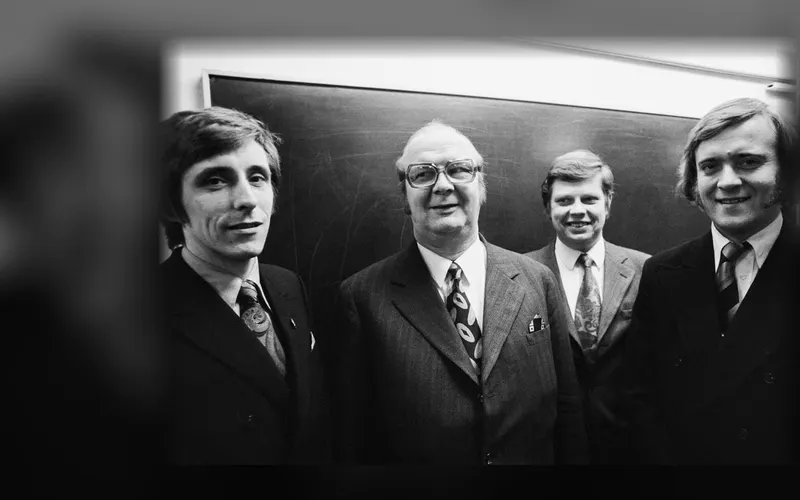
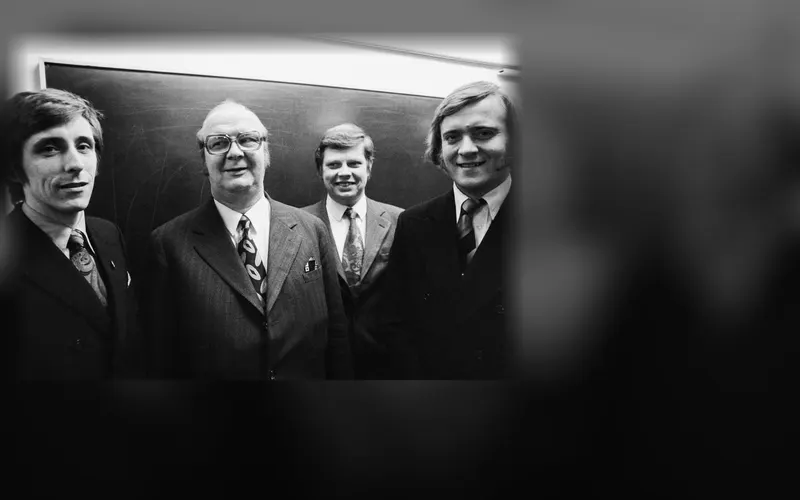
Seurapatruunat-kuva: koko ryhmä näkyviin (Heikki: Mäkinenkin seurapomo, ei zoomata Mobergiin)

diff --git a/apps/tietoniekka/lib/jaakiekko.ts b/apps/tietoniekka/lib/jaakiekko.ts
@@ -170,7 +170,7 @@ export const JK_GENERAL: JkCard[] = [
   { quizSlug: "sm-liiga-finaalidraamat", tag: "Finaalit", title: "Kolmannen jatkoerän sankarit", img: IMG("jk-liiga-finaalidraamat-kuva"), pos: "16% top", accent: "#E8A320" },
   { quizSlug: "sm-liiga-valmentajadraamat-tulisielut", tag: "Penkin takana", title: "Aidot tulisielut", img: IMG("jk-liiga-valmentajat-kuva"), pos: "16% top", accent: "#E2231A" },
   { quizSlug: "sm-liiga-ulkomaalaisvahvistukset", tag: "Tuontitavara", title: "Liigan ulkomaalaislegendat", img: IMG("jk-liiga-ulkomaalaiset-kuva"), pos: "16% top", accent: "#F26B21" },
-  { quizSlug: "sm-liigan-legendaariset-pomot-visa", tag: "Seurapatruunat", title: "Sikarit, faksit ja seurapatruunat", img: IMG("jk-liiga-pomot-kuva"), pos: "100% top", accent: "#B6FF3C" },
+  { quizSlug: "sm-liigan-legendaariset-pomot-visa", tag: "Seurapatruunat", title: "Sikarit, faksit ja seurapatruunat", img: IMG("jk-liiga-pomot-kuva"), pos: "16% top", accent: "#B6FF3C" },
   // 19.9.2026: kolme 22.8. julkaistua visaa puuttui sivulta (ei korttia eikä
   // kuvaa, pelattavissa vain suoralla linkillä). Kuvat Heikiltä 19.9.
   { quizSlug: "sm-liiga-ikonisimmat-maalitykit", tag: "Maalintekijät", title: "Liigan maalitykit", img: IMG("jk-liiga-maalitykit"), accent: "#35D6A0" },
